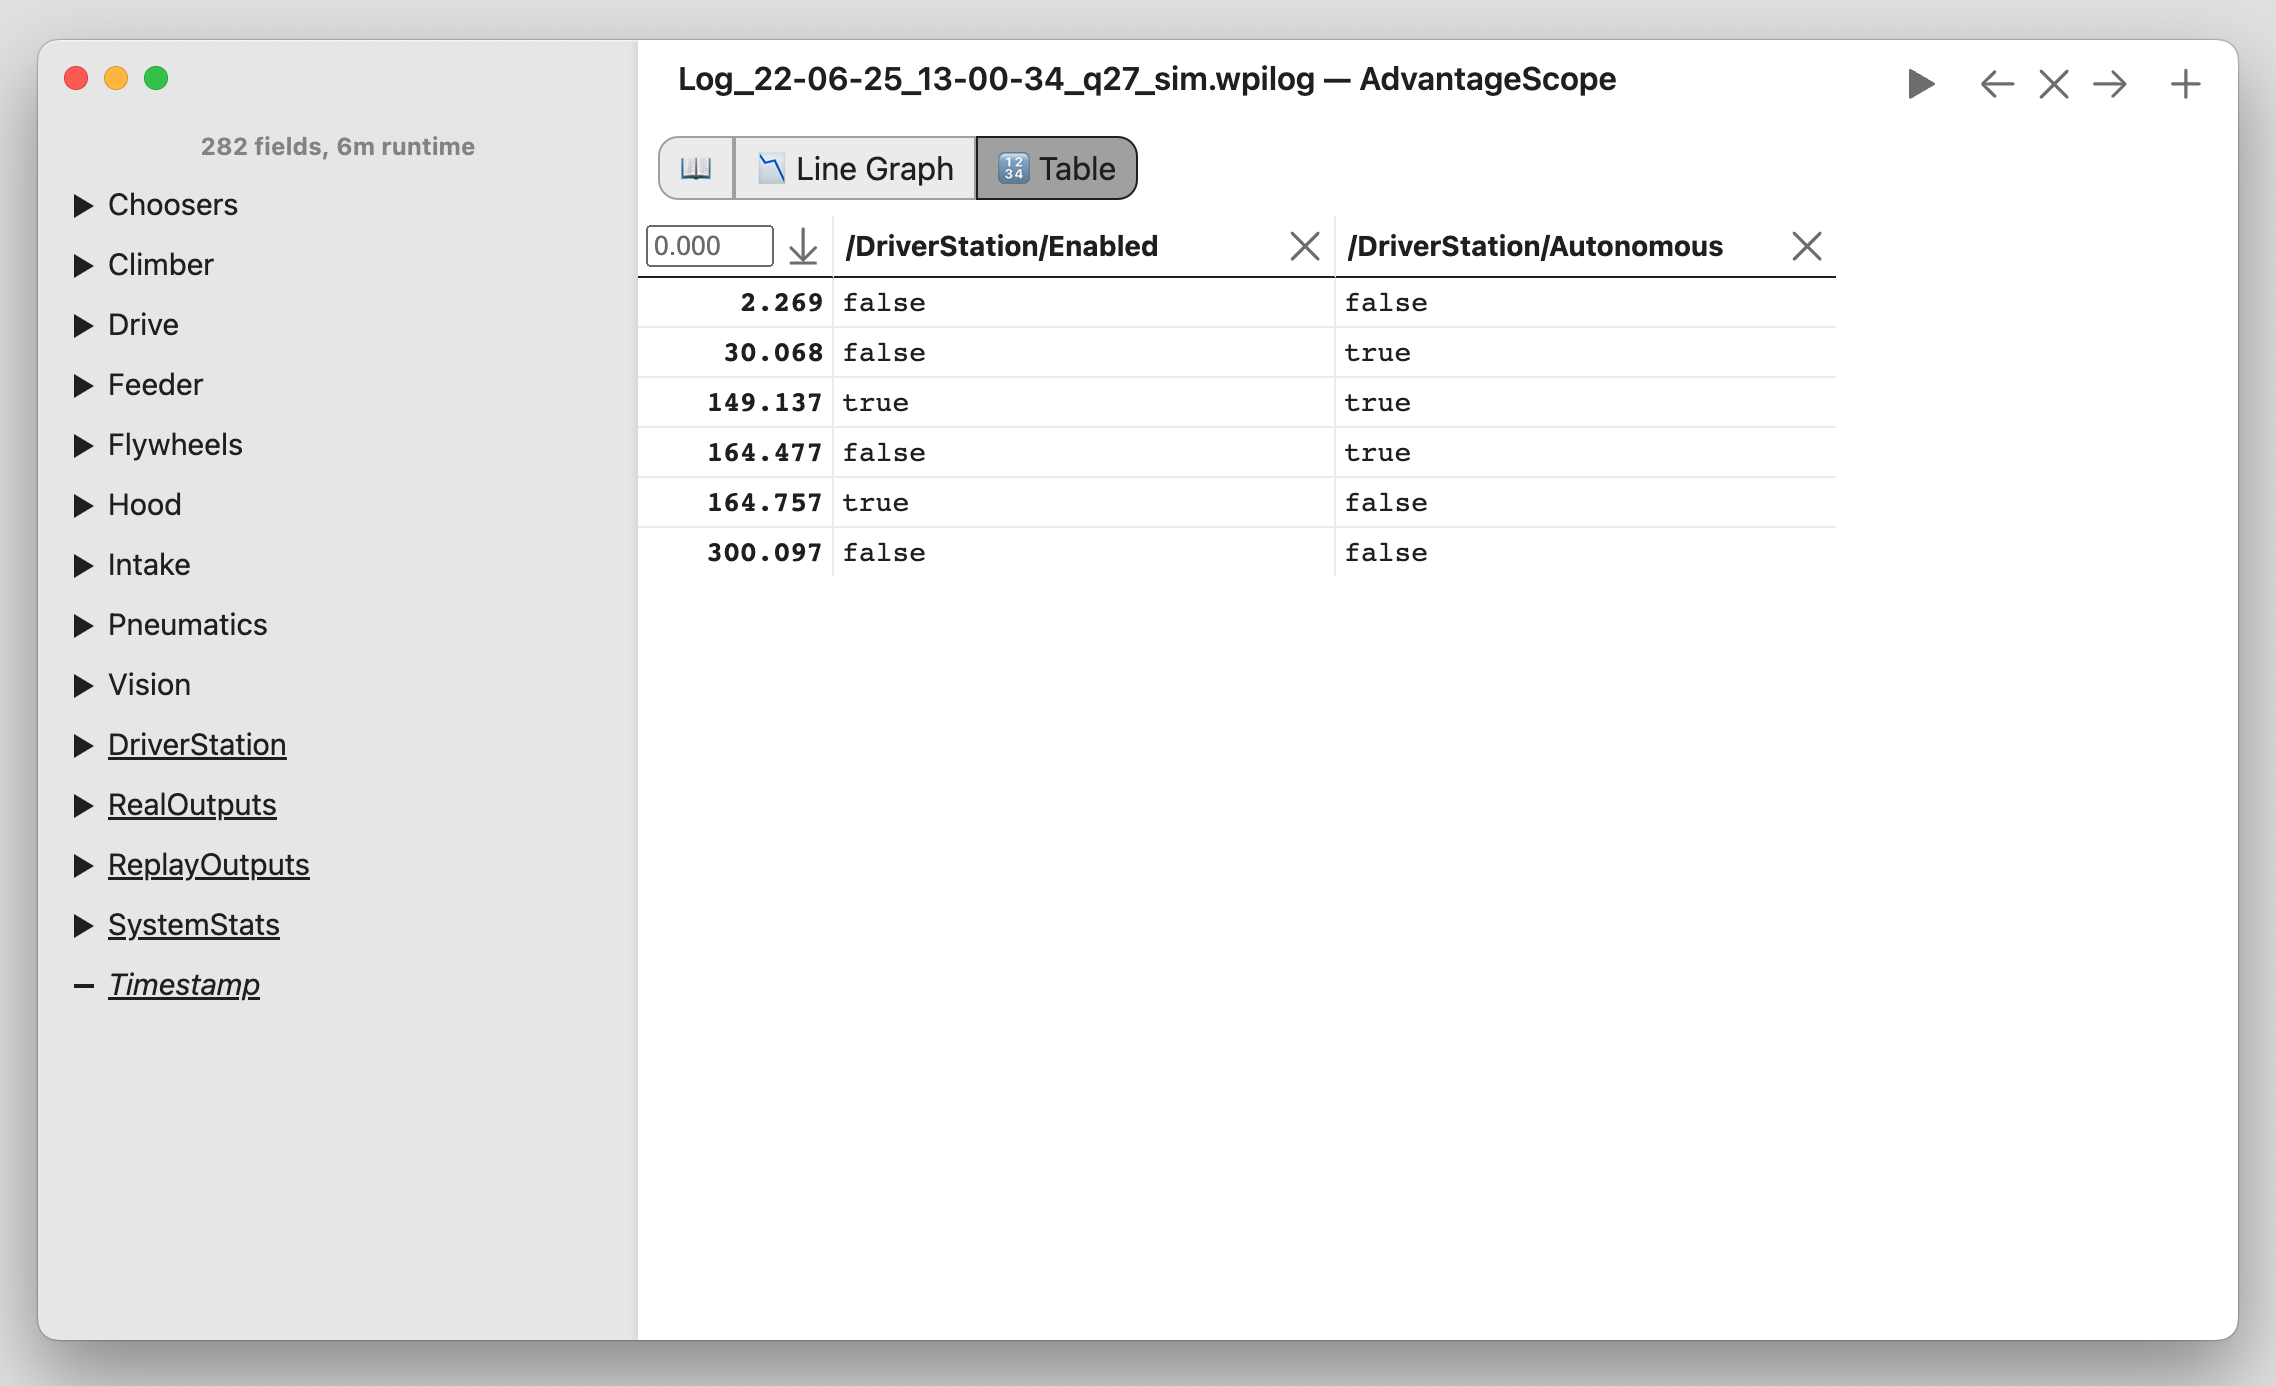
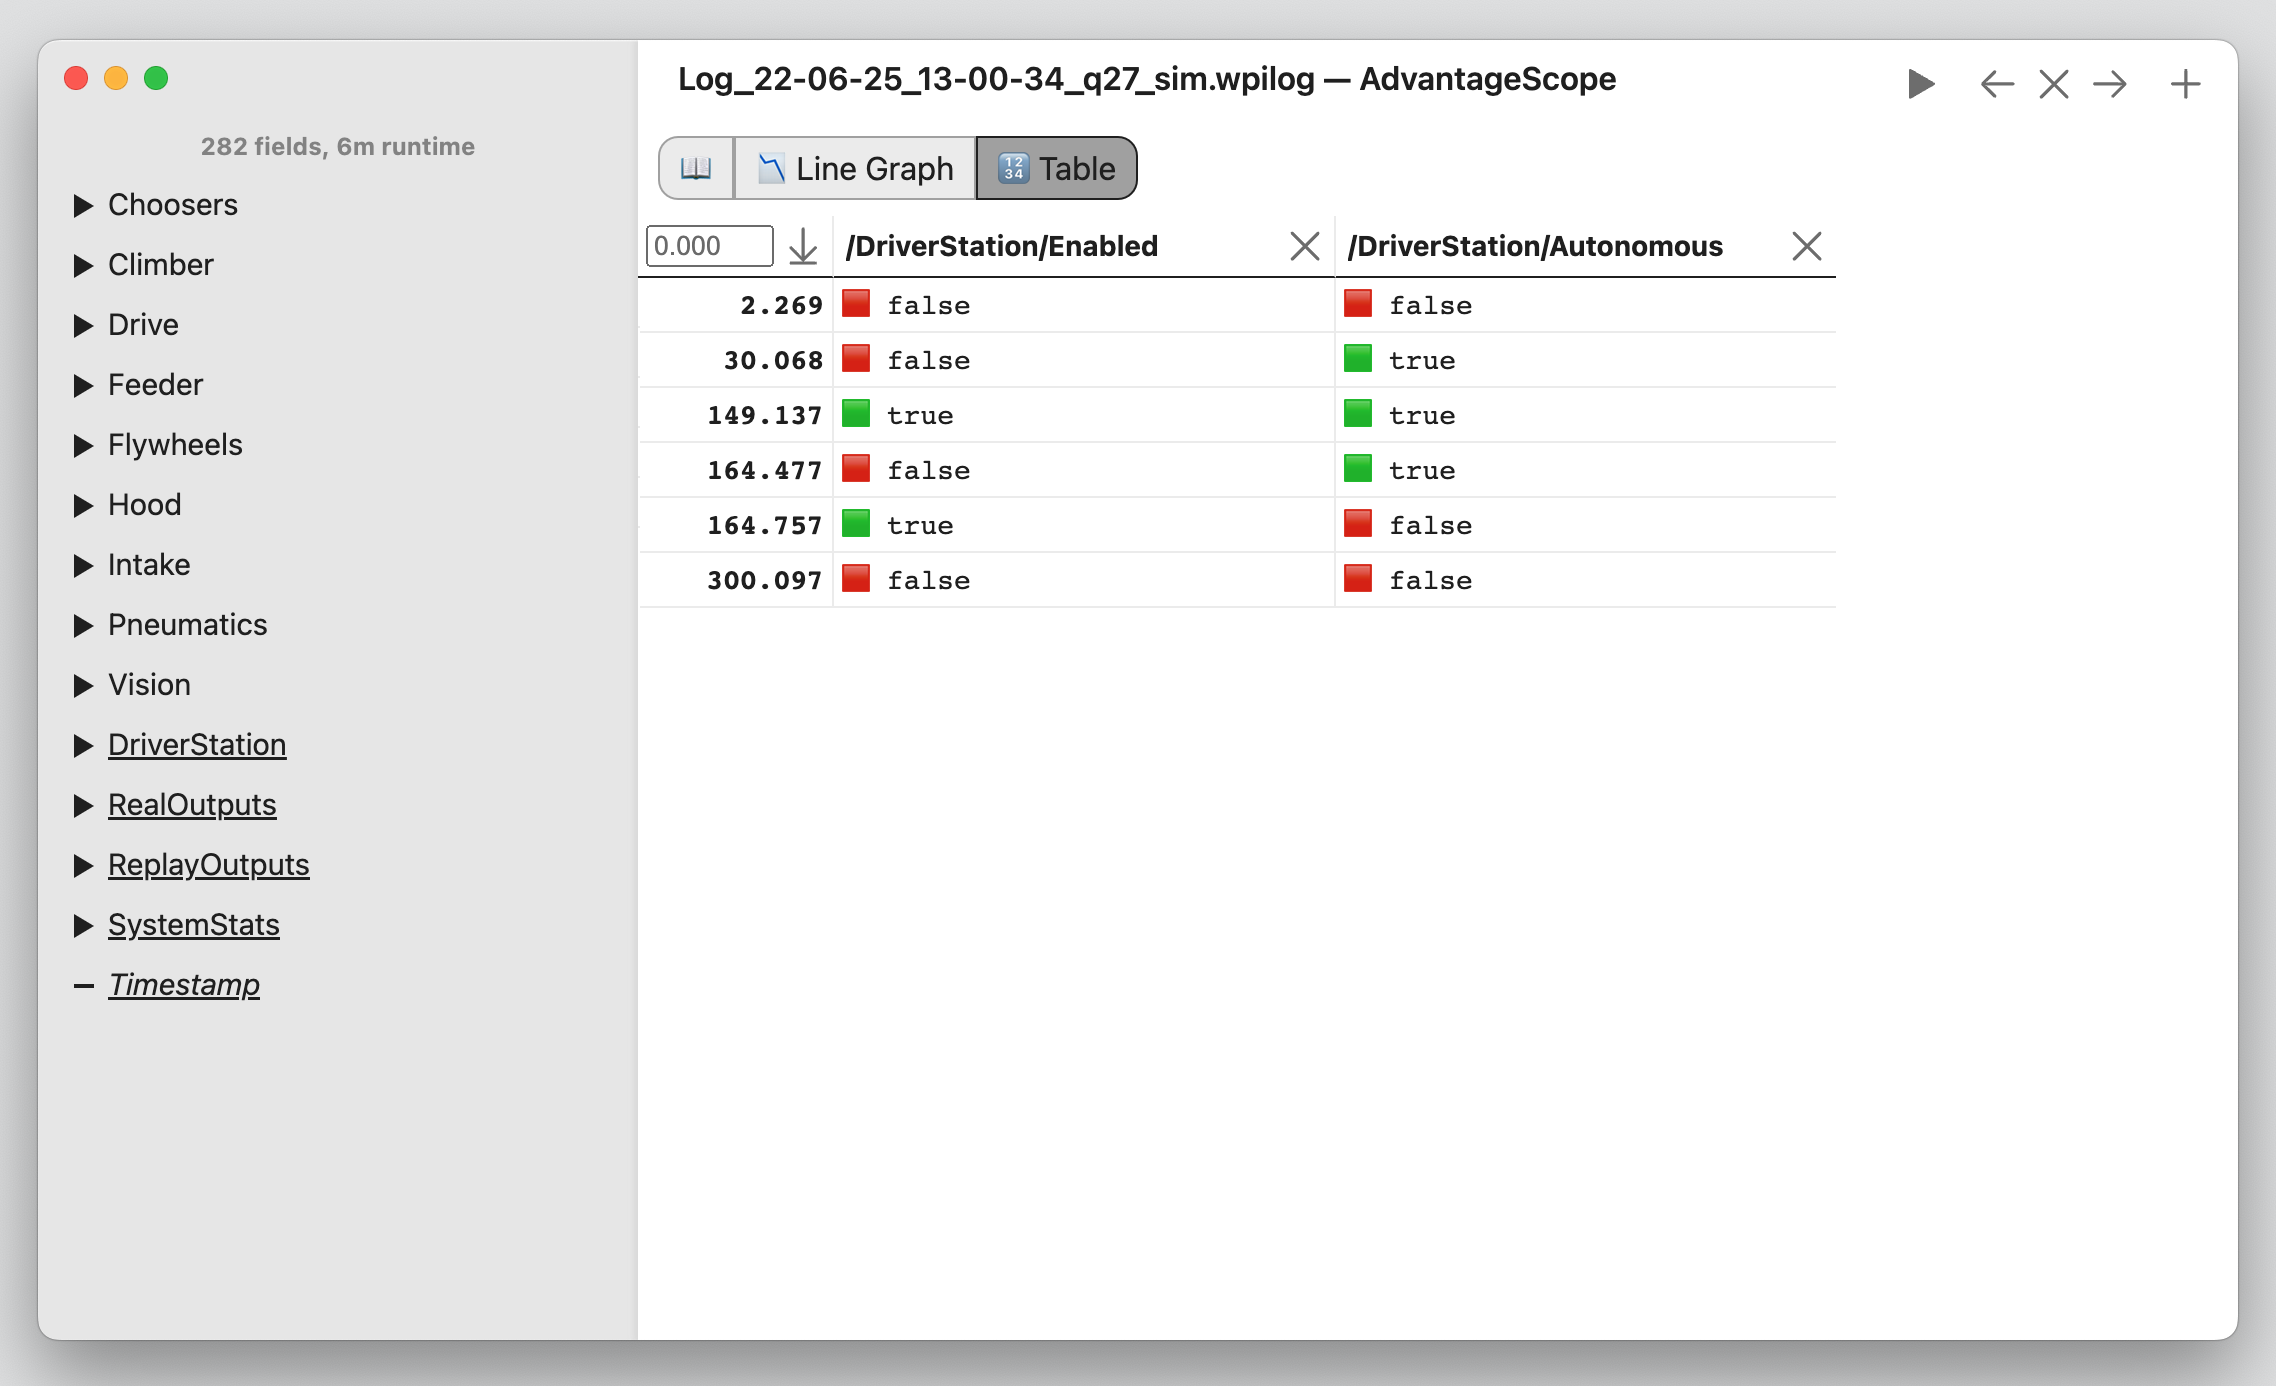
Add colors to boolean values in table

Changed region(s): [[0.312, 0.1861, 0.4367, 0.4343], [0.5927, 0.1861, 0.6551, 0.4343]]

diff --git a/src/hub/tabControllers/TableController.ts b/src/hub/tabControllers/TableController.ts
@@ -354,7 +354,13 @@ export default class TableController implements TabController {
         if (nextIndex === 0) {
           cellText[i - dataRowStart].push("null");
         } else {
-          cellText[i - dataRowStart].push(getLogValueText(data.values[nextIndex - 1], window.log.getType(field)!));
+          let value = data.values[nextIndex - 1];
+          let type = window.log.getType(field)!;
+          let text = getLogValueText(value, type);
+          if (type === LoggableType.Boolean) {
+            text = (value ? "🟩" : "🟥") + " " + text;
+          }
+          cellText[i - dataRowStart].push(text);
         }
       }
     });
